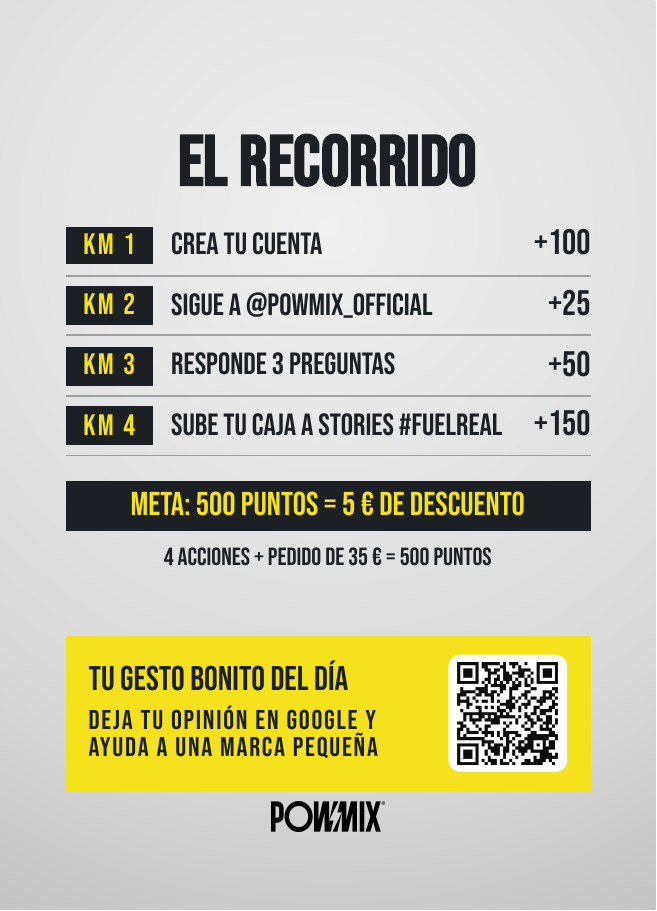
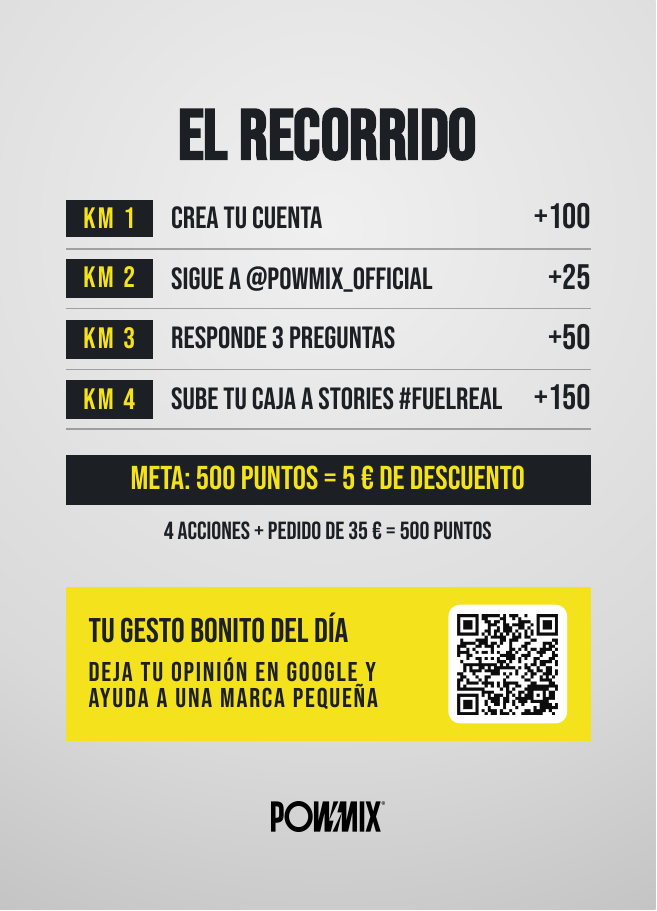
A6 card: smaller scan text, powmix.es under QR, regroup back
Claude-Session: https://claude.ai/code/session_01ESgrYfWtbUyydYC5uboLBi

Changed region(s): [[0.0913, 0.0922, 0.9132, 0.8913]]

diff --git a/a6/a6.html b/a6/a6.html
@@ -11,9 +11,9 @@ body{font-family:Bebas,sans-serif;color:#1c2024}
 .sub{font-size:5.2mm;margin-top:4mm;line-height:1.15}
 .bar{background:#1c2024;color:#f4e21c;padding:1mm 5mm;white-space:nowrap}
 .pts{font-size:9mm;margin-top:auto}
-.row{display:flex;flex-direction:column;align-items:center;gap:2.5mm;margin-top:4mm;text-align:center}
-.row .t{font-size:4.4mm;line-height:1.1;letter-spacing:.2mm}
-.row .u{font-size:4.4mm;letter-spacing:.3mm;margin-top:1mm}
+.row{display:flex;flex-direction:column;align-items:center;gap:1.2mm;margin-top:4mm;text-align:center}
+.row .t{font-size:3.6mm;line-height:1.15;letter-spacing:.2mm}
+.row .u{font-size:5.4mm;letter-spacing:.3mm}
 .qr{width:24mm;height:24mm;background:#fff;padding:2mm;border-radius:2mm}
 .qr img{width:100%;height:100%}
 .logo{margin-top:4mm}.logo img{width:19mm}
@@ -24,7 +24,7 @@ h2{font-size:12mm;line-height:.9}
 .step span{flex:1}.step i{font-style:normal;font-size:6mm}
 .meta{font-size:5.6mm;margin-top:4mm;width:100%}
 .note{font-size:4.2mm;margin-top:2mm}
-.main{flex:1;display:flex;flex-direction:column;align-items:center;justify-content:center;width:100%}.gest{margin-top:0;margin-bottom:-2mm;width:100%;background:#f4e21c;display:flex;align-items:center;gap:4mm;padding:3mm 4mm;text-align:left}
+.main{flex:1;display:flex;flex-direction:column;align-items:center;justify-content:center;width:100%}.gest{margin-top:7mm;width:100%;background:#f4e21c;display:flex;align-items:center;gap:4mm;padding:3mm 4mm;text-align:left}
 .gest .t{flex:1;font-size:5.8mm;line-height:1}
 .gest .t small{display:block;font-size:4.6mm;letter-spacing:.3mm;margin-top:1.5mm}
 .gest .qr{width:20mm;height:20mm;padding:1.5mm}
@@ -34,7 +34,7 @@ h2{font-size:12mm;line-height:.9}
  <div class="big">TU PRÓXIMA<br>CARRERA<br>YA HA EMPEZADO</div>
  <div class="sub">GRACIAS POR CONFIAR EN POWMIX<br>ENERGÍA REAL, SIN DRAMAS</div>
  <div class="bar pts">META: 500 PUNTOS = 5 €</div>
- <div class="row"><div class="qr"><img src="qr.png"></div><div><div class="t">EN TU PRÓXIMO PEDIDO, ESCANEA<br>Y COMPLETA 4 TRAMOS FÁCILES</div><div class="u">POWMIX.ES/PAGES/CLUB</div></div></div>
+ <div class="row"><div class="qr"><img src="qr.png"></div><div class="u">POWMIX.ES</div><div class="t">EN TU PRÓXIMO PEDIDO, ESCANEA<br>Y COMPLETA 4 TRAMOS FÁCILES</div></div>
  <div class="logo"><img src="logo.png"></div>
 </div>
 <div class="p g">
@@ -46,8 +46,7 @@ h2{font-size:12mm;line-height:.9}
   <div class="step"><b>KM 4</b><span>SUBE TU CAJA A STORIES #FUELREAL</span><i>+150</i></div>
  </div>
  <div class="bar meta">META: 500 PUNTOS = 5 € DE DESCUENTO</div>
- <div class="note">4 ACCIONES + PEDIDO DE 35 € = 500 PUNTOS</div></div>
- <div class="gest"><div class="t">TU GESTO BONITO DEL DÍA<small>DEJA TU OPINIÓN EN GOOGLE Y AYUDA A UNA MARCA PEQUEÑA</small></div><div class="qr"><img src="qr_google.png"></div></div>
+ <div class="note">4 ACCIONES + PEDIDO DE 35 € = 500 PUNTOS</div><div class="gest"><div class="t">TU GESTO BONITO DEL DÍA<small>DEJA TU OPINIÓN EN GOOGLE Y AYUDA A UNA MARCA PEQUEÑA</small></div><div class="qr"><img src="qr_google.png"></div></div></div>
  <div class="logo"><img src="logo.png"></div>
 </div>
 </body></html>
